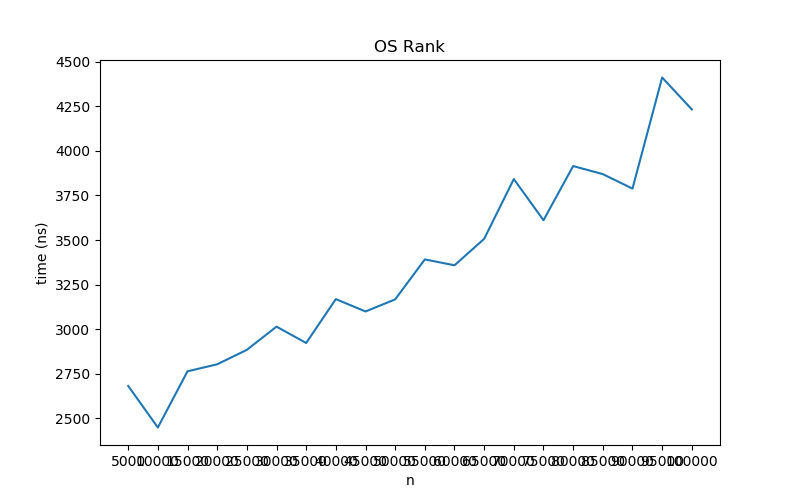
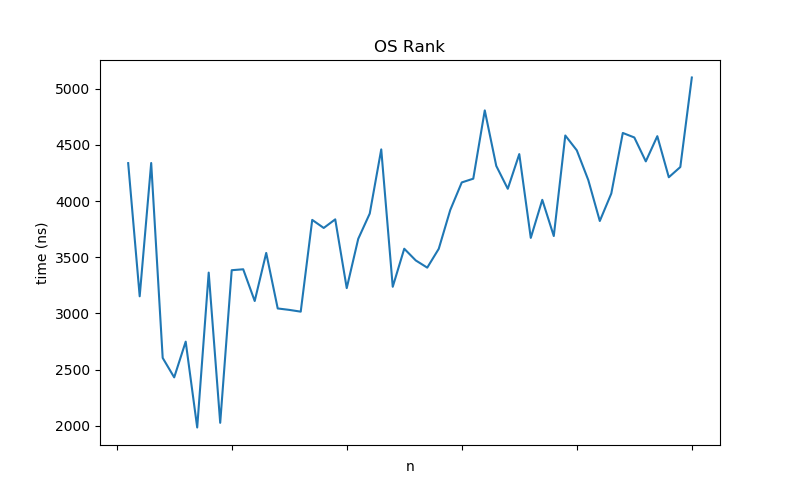
updated tests, need to add write to csv functionality

diff --git a/Python/OSTrees/os_trees.py b/Python/OSTrees/os_trees.py
@@ -418,21 +418,10 @@ def display_tree(T, figname=""):
     nx.draw_networkx_labels(G, pos=pos, font_color='w')
     plt.show()
 
-def plot_graph(filename, heading, time, n):
-    x = np.linspace(1, len(n), len(n))
-    plt.figure(figsize=(8, 5))
-    plt.xlabel('n')
-    plt.ylabel('time (ns)')
-    plt.title(heading)    
-    plt.xticks(x)
-    ax = sns.lineplot(x, time)
-    ax.set_xticklabels(np.arange(min(n), max(n), 20000))
-    plt.savefig(filename + '.png')
-    plt.show() 
 
 if __name__ == "__main__":
 
-    n = np.arange(1000, 201000, 1000)
+    n = np.arange(2000, 101000, 2000)
     avg_times = 1
 
     insert_time = []
